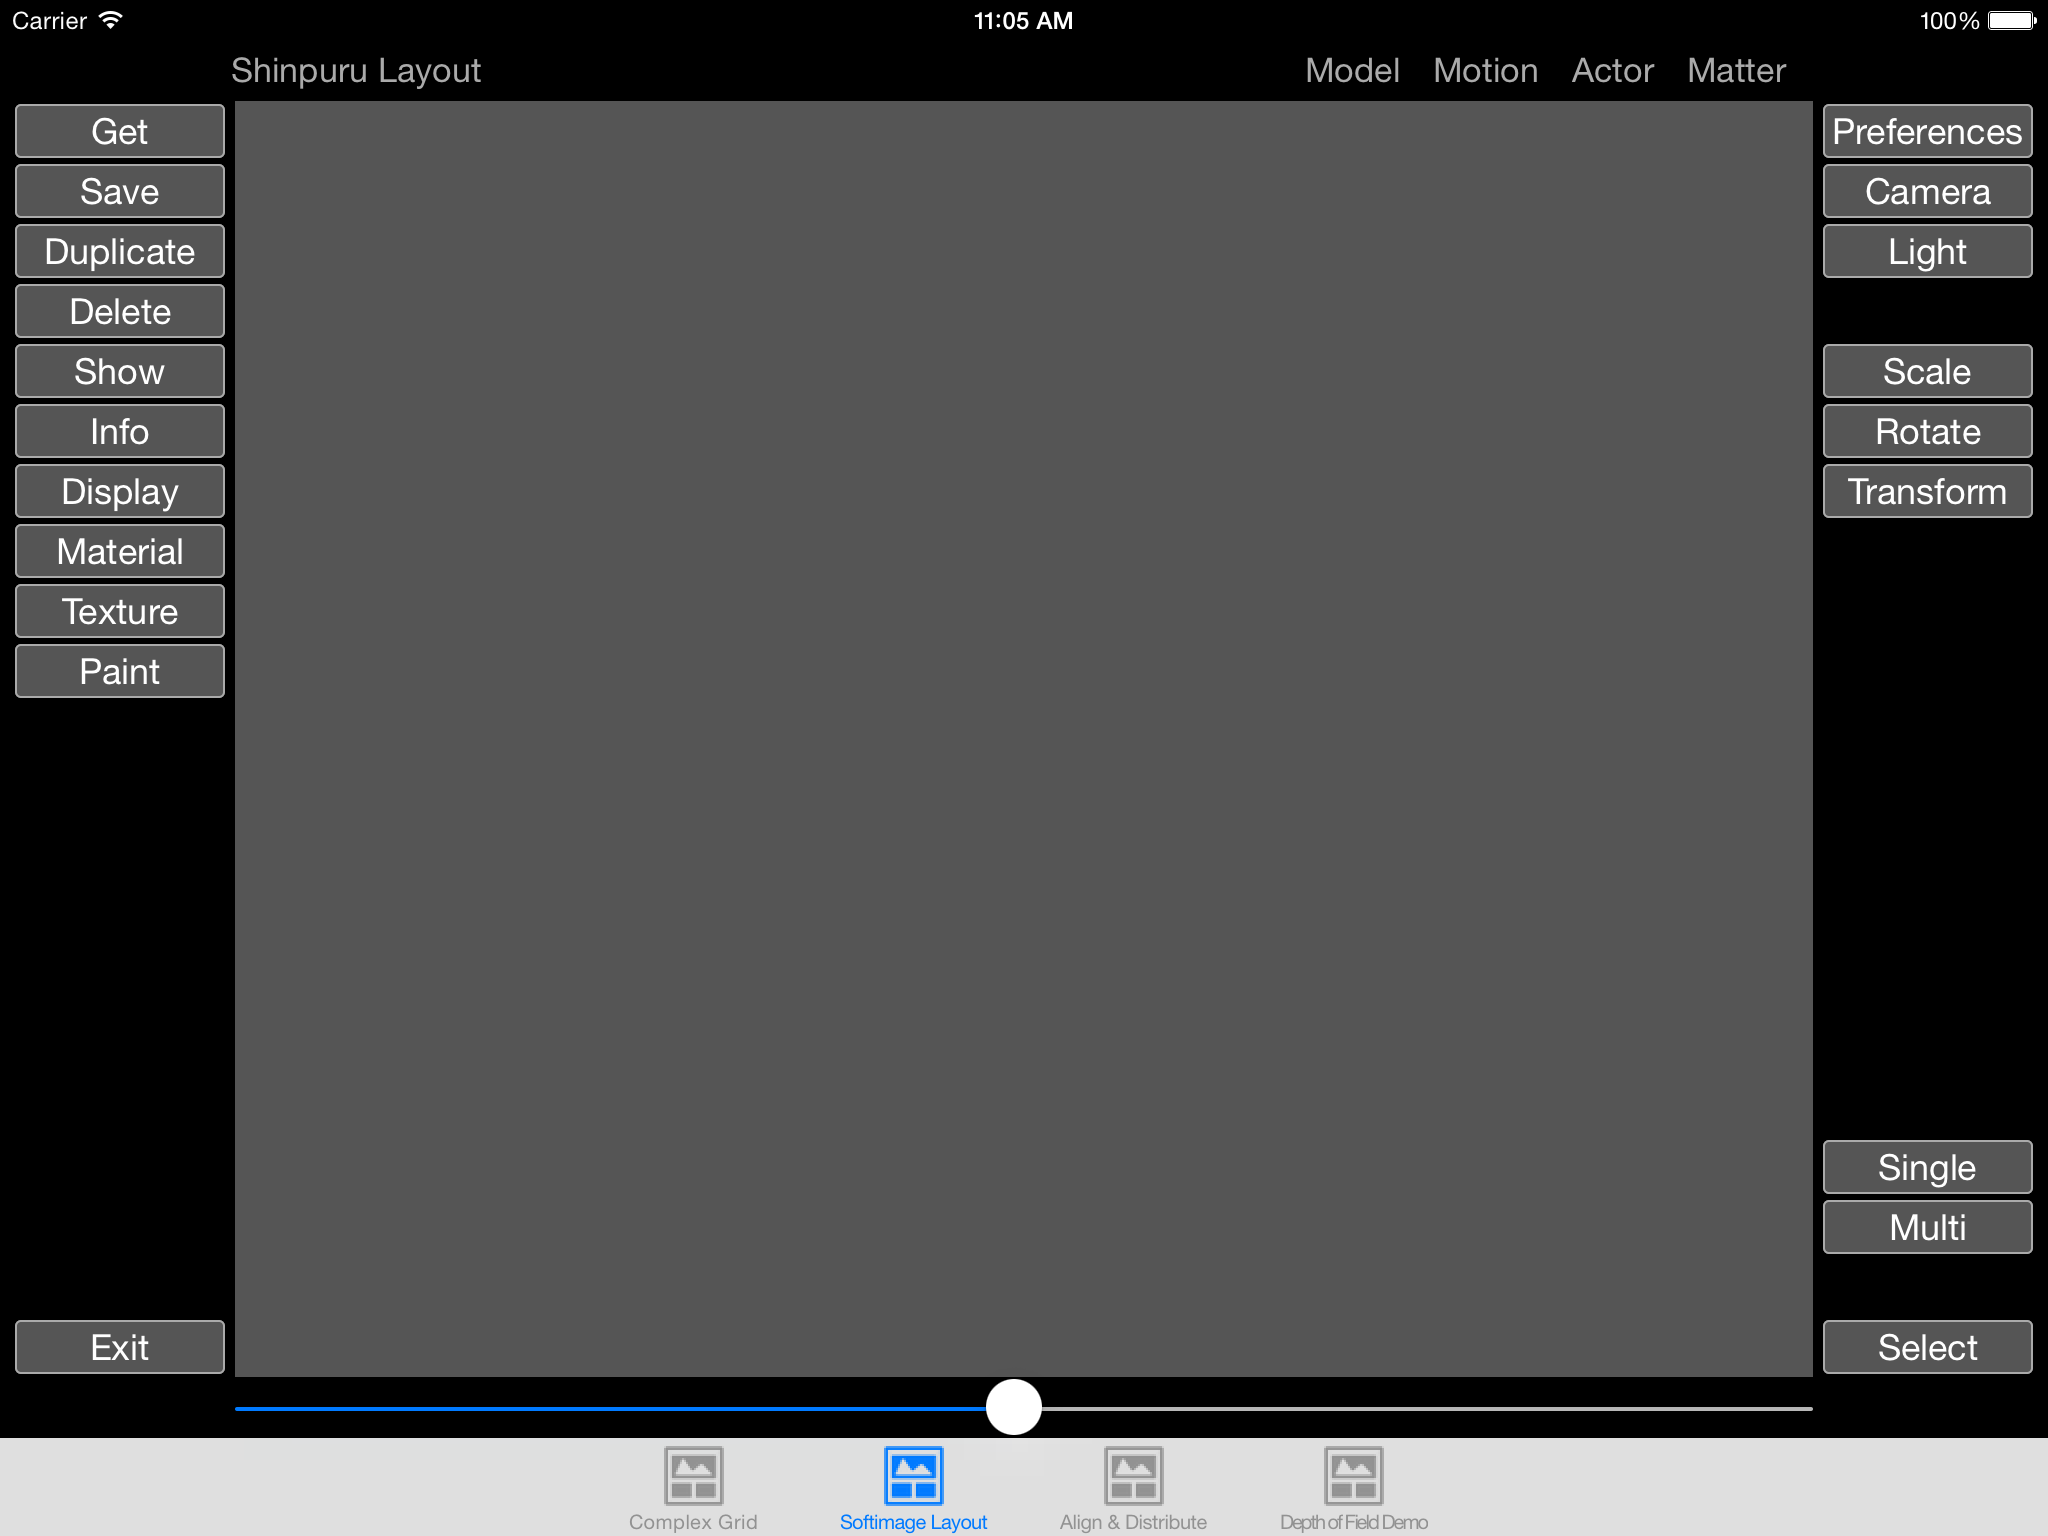
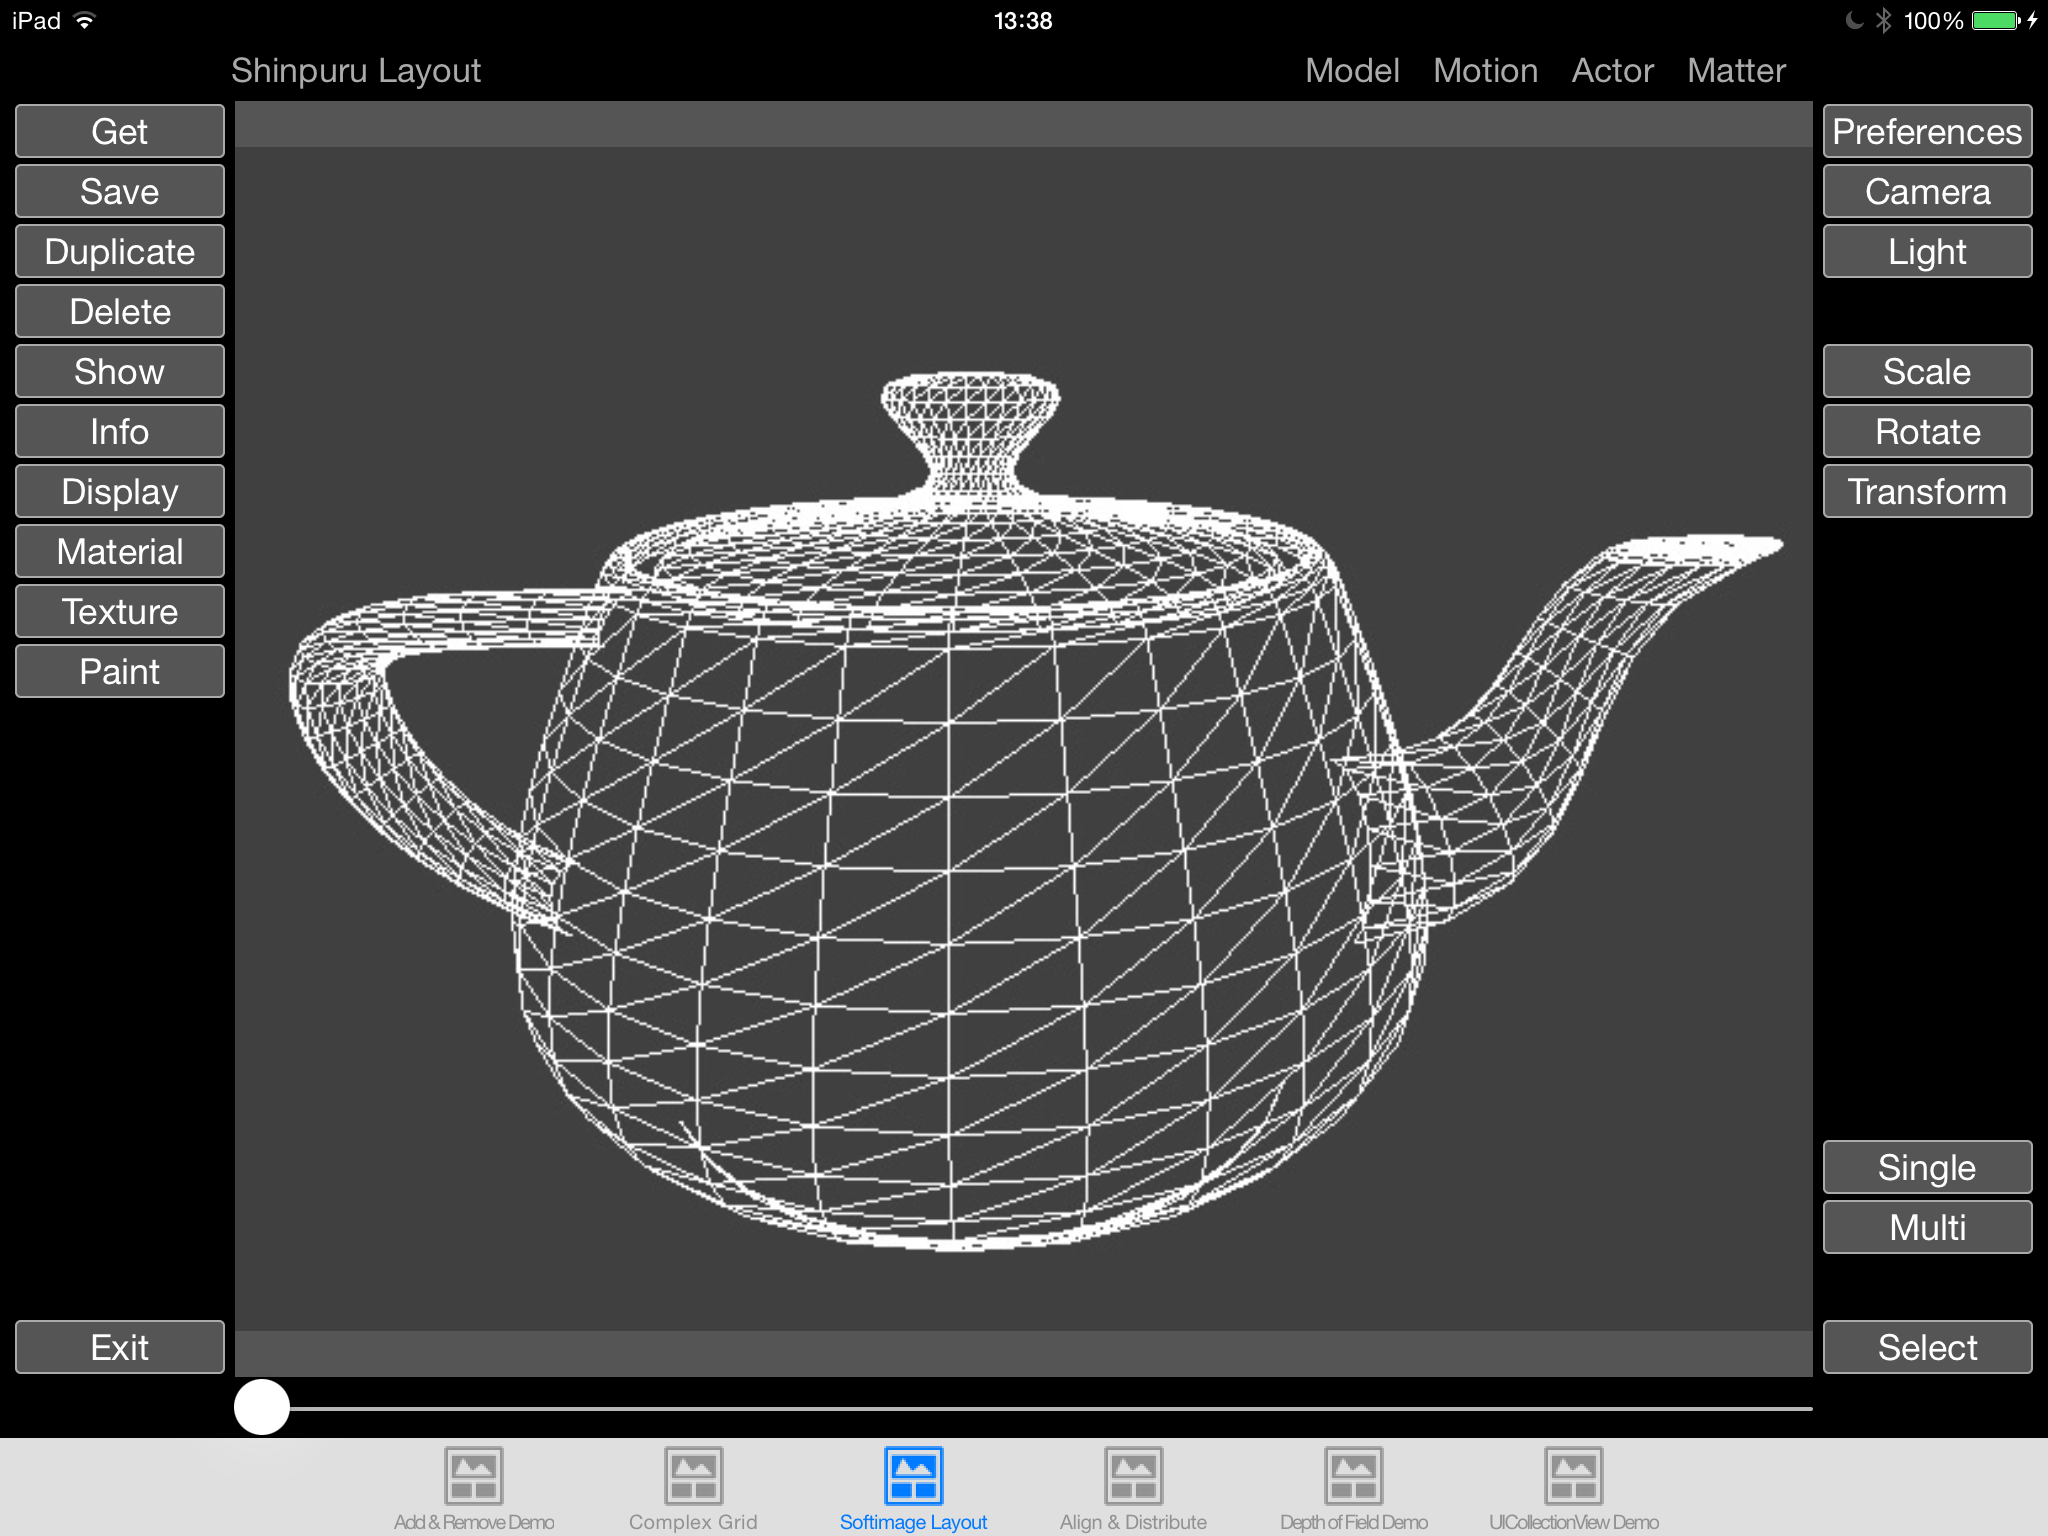
Added new component: SLImageView
Jazzed up Softimage demo with a wireframe teapot :)

diff --git a/ShinpuruLayout/SoftimageLayout.swift b/ShinpuruLayout/SoftimageLayout.swift
@@ -30,9 +30,11 @@ class SoftimageLayout: UIViewController
         let group = SLHGroup()
         group.margin = 5
         
-        let workSpace = UIView()
+        let workSpace = SLImageView()
         workSpace.backgroundColor = UIColor.darkGrayColor()
-        
+        workSpace.image = UIImage(named: "teapot.jpg")
+        workSpace.contentMode = UIViewContentMode.ScaleAspectFit
+    
         group.children = [createLeftToolbar(), workSpace, createRightToolbar()]
         
         return group

diff --git a/ShinpuruLayout/SLControls.swift b/ShinpuruLayout/SLControls.swift
@@ -32,6 +32,12 @@ public class SLButton: UIButton, SLLayoutItem
     public var explicitSize: CGFloat?
 }
 
+public class SLImageView: UIImageView, SLLayoutItem
+{
+    public var percentageSize: CGFloat?
+    public var explicitSize: CGFloat?
+}
+
 public class SLSpacer: UIView, SLLayoutItem
 {
     public var percentageSize: CGFloat?
